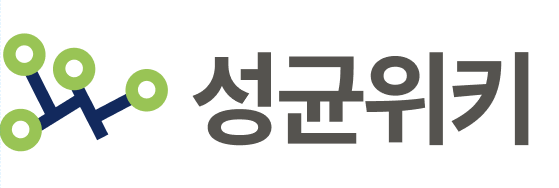
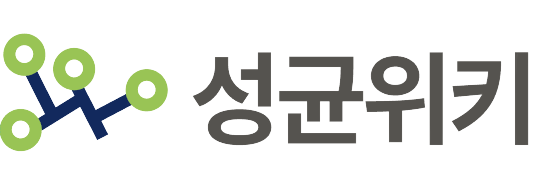
홈 아이콘 애니메이션 수정

diff --git a/static/css/home.css b/static/css/home.css
@@ -189,10 +189,10 @@ main {
     height: 90%;
 }
 
-.home-main {
+.home-main { 
     display: flex;
     position: relative;
-    top: 205px;
+    top: 140px;
     align-items: center;
     justify-content: center;
     flex-direction: column;
@@ -201,12 +201,102 @@ main {
 
 .main-logo {
     margin:10px 0;
+    width: 450px;
+    height: 160px;
 }
 
+.skkuSvg{
+    margin-left: 40px;
+    float:left;
+}
+
+.wikiSvg{
+    float:right;
+}
+
+.text-skku{
+    animation-name: skkuMotion;
+    font-size: 6em;
+    font-weight: 800;
+    fill: #8DC63F;
+    z-index: 9999;
+    text-shadow: 2px 2px 2px gray; 
+    stroke-dasharray: 368px;
+    -ms-user-select: none; 
+    -moz-user-select: -moz-none;
+    -khtml-user-select: none;
+    -webkit-user-select: none;
+    user-select: none;
+}
+
+.text-wiki{
+    font-size: 6em;
+    font-weight: 800;
+    fill: #072A60;
+    z-index: 9999;
+    text-shadow: 2px 2px 2px gray; 
+    stroke-dasharray: 555px; 
+    -ms-user-select: none; 
+    -moz-user-select: -moz-none;
+    -khtml-user-select: none;
+    -webkit-user-select: none;
+    user-select: none;  
+}
+
+.main-logo:hover{
+    animation: skkuMotion 2s linear;
+    animation-fill-mode: forwards; 
+     
+}
+
+@-webkit-keyframes skkuMotion {
+    0%   {
+        stroke:white;
+        stroke-width: 2px;
+        stroke-dashoffset: 368px;
+    }
+    70% {
+        fill: transparent;
+    }
+    98% {
+        stroke:white;
+        stroke-width: 2px;
+    }
+    100% {
+        stroke:white;
+        stroke-width: 2px;
+        stroke-dashoffset: 0px;
+    }
+}
+
+@-webkit-keyframes wikiMotion {
+    0%   {
+        stroke:white;
+        stroke-width: 2px;
+        stroke-dashoffset: 555px;
+    }
+    70% {
+        fill: transparent;
+    }
+    98% {
+        stroke:white;
+        stroke-width: 2px;
+    }
+    100% {
+        stroke:white;
+        stroke-width: 2px;
+        stroke-dashoffset: 0px;
+    }
+}
+
+
 .search-bar {
+    animation-name: searchBarMotion;
+    animation-duration:0.7s;
+    animation-duration: leaner;
     position: relative;
     margin:40px 0 110px 0;
-    background-color: #D9D9D9;
+    background-color: white;
     width: 32%;
     min-width: 400px;
     height: 40px;

diff --git a/posts/templates/post-new.html b/posts/templates/post-new.html
@@ -1,0 +1,52 @@
+{% extends 'navbar.html' %}
+{% load static %}
+
+    <!-- css 이름 변경-->
+    {% block content %}
+    <link rel="stylesheet" href="{% static 'css/post-edit.css' %}">
+    {% endblock %}
+
+    {% block content_side %}
+    <!-- css 이름 변경-->
+
+
+
+<!-- 글 작성 폼 -->
+<form method="POST" action="{% url 'posts:write' %}" class="" role="write">
+    {% csrf_token %}  
+    <div class="editBox">
+        <div class="editContainer">  
+            <div class="editTitle">새 글 작성하기</div>
+        </div>
+    <input name="title" class="editTitle" type="text" placeholder="write the title">
+    {{ postDetail.title }}
+
+
+        <textarea name="body" class="editBody" placeholder="write the body">
+            {{ postDetail.body }} 
+            </textarea><br>
+        <input type="submit" value="작성" class="submitBtn" id="submitBtn"><br>
+    </div>
+</form>
+{% endblock %}
+
+
+{% block script%}
+<script type='text/jvascript'>
+    document.getElementById("editBody").style.fontSize = '17px';
+    document.getElementById("submitBtn").addEventListener("click", function(){
+        alert('수정이 완료되었습니다.');
+        history.back;
+    })
+</script>
+{% endblock %}
+
+{% block script%}
+<script type='text/jvascript'>
+    document.getElementById("editBody").style.fontSize = '17px';
+    document.getElementById("submitBtn").addEventListener("click", function(){
+        alert('수정이 완료되었습니다.');
+        history.back;
+    })
+</script>
+{% endblock %}

diff --git a/posts/templates/post-edit.html b/posts/templates/post-edit.html
@@ -1,0 +1,40 @@
+{% extends 'navbar.html' %}
+{% load static %}
+
+    <!-- css 이름 변경-->
+    {% block content %}
+    <link rel="stylesheet" href="{% static 'css/post-edit.css' %}">
+    {% endblock %}
+
+    {% block content_side %}
+
+<!-- 글 수정 폼 -->
+
+<form method="POST" action="{% url 'posts:edit' postDetail.id %}" class="" role="write">
+    {% csrf_token %}  
+
+    <div class="editBox">
+     <div class="editContainer">
+        <div class="editTitle">편집하기</div>
+     </div>
+
+        <textarea name="title" class="editTitle" placeholder="write the title"> 
+            {{ postDetail.title }}
+            </textarea><br>
+        <textarea name="body" class="editBody" placeholder="write the body">
+             {{ postDetail.body }} 
+            </textarea><br>
+        <input type="submit" value="작성" class="submitBtn" id="submitBtn"><br>
+    </div>
+</form>
+{% endblock %}
+
+{% block script%}
+<script type='text/jvascript'>
+    document.getElementById("editBody").style.fontSize = '17px';
+    document.getElementById("submitBtn").addEventListener("click", function(){
+        alert('수정이 완료되었습니다.');
+        history.back;
+    })
+</script>
+{% endblock %}

diff --git a/static/css/post-edit.css b/static/css/post-edit.css
@@ -1,0 +1,54 @@
+.editContainer {
+    display: flex;
+    margin-bottom:30px ;
+  }
+  .editBox {
+    display: flex;
+    flex-direction: column;
+    padding: 50px 100px;
+  }
+
+  .editTitle {
+    color: rgba(0,0,0,1);
+    font-weight: Bold;
+    font-size: 30px;
+    opacity: 1;
+    text-align:center;
+  }
+
+  .selectedPost {
+    font-size: 15px;
+    text-align: center;
+    padding: 18px 10px 10px 10px;
+    color: grey;
+  }
+  .submitBtn {
+    height: 30px;
+    width: 100px;
+    font-size: 15px;
+    margin: auto 0 0 auto;
+    border: none;
+    background-color: white;
+    letter-spacing: -1px;
+    font-weight: bolder;
+    cursor: pointer; 
+  }
+
+  .submitBtn:hover {
+    box-shadow: 0 10px 20px rgba(0, 0, 0, 0.2), 0 6px 4px rgba(0, 0, 0, 0.2);
+    transition: 0.4s;
+  }
+
+  .editBody::placeholder {
+    font-size: 17px;
+
+  }
+
+  .editBody {
+    width: 100%;
+    height: 423px;
+    resize: none;
+    font-family: "Malgun Gothic";
+    padding: 10px;
+    letter-spacing: -2px;
+  }

diff --git a/static/js/home.js b/static/js/home.js
@@ -55,3 +55,27 @@ dropIcon.addEventListener('click', function(event){
         }, duration);
     }
 });
+
+let svgDiv = document.querySelector('.svgDiv');
+
+svgDiv.addEventListener('mouseover', function(event){
+    let skkuSvg = document.querySelector('.skkuSvg');
+    let wikiSvg = document.querySelector('.wikiSvg');
+    skkuSvg.animate([
+        {transform: 'translate(0px)'},
+        {transform: 'translate(-40px)'},
+        {transform: 'translate(0px)'},
+    ], {
+        duration: 2000,
+        
+    });
+    wikiSvg.animate([
+        {transform: 'translate(0px)'},
+        {transform: 'translate(40px)'},
+        {transform: 'translate(0px)'},
+    ], {
+        duration: 2000,
+        
+    });
+});
+

diff --git a/posts/templates/home.html b/posts/templates/home.html
@@ -57,7 +57,12 @@
 <main>
     <div class="home-main">
         <div class="main-logo">
-            <img src="{% static 'img/home-logo.png' %}" alt="SkkuWiki">
+            <svg class="skkuSvg svgDiv" width=280 height=80 viewBox="0 0 280 80">
+                <text x="0" y="90%" class="text-skku">SKKU</text>
+            </svg>
+            <svg class="wikiSvg svgDiv" width=280 height=80 viewBox="0 0 280 80">
+                <text x="0" y="90%" class="text-wiki">WiKi</text>
+            </svg>
         </div>
         <form action="{% url 'posts:postList' %}" method="get">
             <div class="search-bar">
